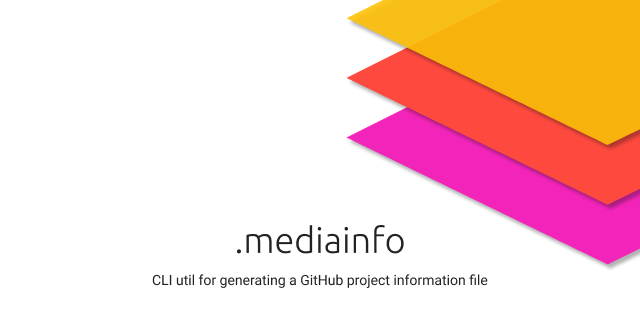
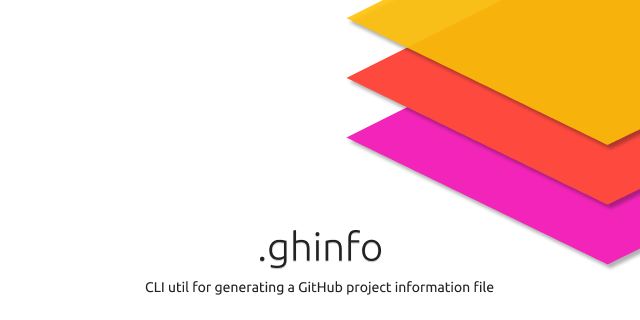
docs: rename pkg to ghinfo

Changed region(s): [[0.2188, 0.6875, 0.7812, 0.9375]]

diff --git a/src/Builder.ts b/src/Builder.ts
@@ -9,7 +9,7 @@ import { UpdateManager } from 'stdout-update';
 const manager = UpdateManager.getInstance();
 const frames = ['⠋', '⠙', '⠹', '⠸', '⠼', '⠴', '⠦', '⠧', '⠇', '⠏'];
 
-export enum MediaFiles {
+export enum AvailableFiles {
     Icon = 'icon',
     Logo = 'logo',
     Demo = 'demo',
@@ -22,19 +22,20 @@ export interface ILinks {
     homepage?: string;
 }
 
-export interface IMediaInfo {
+export interface IInfoFile {
     name: string;
     repo: string;
     version: string;
     type?: string;
     description: string;
+    keywords?: string[];
     links: ILinks;
     files: {
-        [key in MediaFiles]?: string;
+        [key in AvailableFiles]?: string;
     };
 }
 
-export class MediaInfo {
+export class Builder {
     private dir: string;
     private type: string;
     private message = '';
@@ -60,7 +61,7 @@ export class MediaInfo {
                 if (git && git.repo) {
                     if (paths.length) {
                         await fs.promises.writeFile(
-                            path.relative(process.cwd(), '.mediainfo'),
+                            path.relative(process.cwd(), '.ghinfo'),
                             JSON.stringify(this.build(paths, pkg, git.repo), null, 4)
                         );
                     }
@@ -77,9 +78,9 @@ export class MediaInfo {
         }
     }
 
-    public build(paths: string[], pkg: PackageJson, repo: string): IMediaInfo {
-        const { name, version, description, homepage } = pkg;
-        const availableFiles = Object.values(MediaFiles);
+    public build(paths: string[], pkg: PackageJson, repo: string): IInfoFile {
+        const { name, version, description, homepage, keywords } = pkg;
+        const availableFiles = Object.values(AvailableFiles);
 
         if (!name) throw new Error('Package name is undefined!');
         if (!version) throw new Error('Package name is undefined!');
@@ -89,6 +90,7 @@ export class MediaInfo {
             name,
             version,
             description,
+            keywords,
             repo,
             type: this.type,
             links: {
@@ -99,7 +101,7 @@ export class MediaInfo {
             files: paths.reduce((acc, filePath) => {
                 const { name: fileName } = path.parse(filePath);
 
-                return ~availableFiles.indexOf(fileName as MediaFiles) ? { ...acc, [fileName]: filePath } : acc;
+                return ~availableFiles.indexOf(fileName as AvailableFiles) ? { ...acc, [fileName]: filePath } : acc;
             }, {}),
         };
     }
@@ -113,7 +115,7 @@ export class MediaInfo {
         }, 80);
     }
 
-    private end(msg = [`${figures.tick} .mediainfo created!`]): void {
+    private end(msg = [`${figures.tick} .ghinfo created!`]): void {
         if (this.timer) {
             clearInterval(this.timer);
             manager.update(msg, 0);

diff --git a/src/__tests__/Builder.test.ts b/src/__tests__/Builder.test.ts
@@ -1,18 +1,18 @@
-import { MediaInfo } from '../MediaInfo';
+import { Builder } from '../Builder';
 
 const repo = 'keindev/media-info';
 const type = 'test';
 const paths = ['media/logo.svg', 'media/logo.jpg', 'media/social-preview.png'];
-let builder: MediaInfo;
+let builder: Builder;
 
-describe('MediaInfo', () => {
-    describe('Generate .mediainfo file', () => {
+describe('Builder', () => {
+    describe('Generate .ghinfo file', () => {
         beforeEach(() => {
-            builder = new MediaInfo(process.cwd(), type);
+            builder = new Builder(process.cwd(), type);
         });
 
         it('Build media info structure', () => {
-            const pkg = { name: 'media-info', version: '1.0.0', description: 'test' };
+            const pkg = { name: 'media-info', version: '1.0.0', description: 'test', keywords: ['test'] };
             const info = builder.build(paths, pkg, repo);
 
             expect(info).toStrictEqual({

diff --git a/src/cli/commands/generate.ts b/src/cli/commands/generate.ts
@@ -1,8 +1,8 @@
 import { Arguments } from 'yargs';
-import { MediaInfo } from '../../MediaInfo';
+import { Builder } from '../../Builder';
 
 export const command = 'generate';
-export const desc = 'Generate .mediainfo file';
+export const desc = 'Generate .ghinfo file';
 export const showInHelp = true;
 export const builder = {
     dir: {
@@ -25,7 +25,7 @@ interface IArguments {
 }
 
 export const handler = ({ dir, type }: Arguments<IArguments>): Promise<void> => {
-    const mediainfo = new MediaInfo(dir, type);
+    const infoBuilder = new Builder(dir, type);
 
-    return mediainfo.generate();
+    return infoBuilder.generate();
 };

diff --git a/README.md b/README.md
@@ -1,10 +1,10 @@
-<p align="center"><img width="400" src="https://cdn.jsdelivr.net/gh/keindev/media-info/media/logo.svg" alt="GitHub GraphQL API client for JavaScript"></p>
+<p align="center"><img width="400" src="https://cdn.jsdelivr.net/gh/keindev/ghinfo/media/logo.svg" alt="GitHub GraphQL API client for JavaScript"></p>
 
 <p align="center">
-    <a href="https://travis-ci.com/keindev/media-info"><img src="https://travis-ci.com/keindev/media-info.svg?branch=master" alt="Build Status"></a>
-    <a href="https://codecov.io/gh/keindev/media-info"><img src="https://codecov.io/gh/keindev/media-info/branch/master/graph/badge.svg" /></a>
-    <a href="https://www.npmjs.com/package/media-info"><img alt="npm" src="https://img.shields.io/npm/v/media-info.svg"></a>
-    <a href="https://www.npmjs.com/package/media-info"><img alt="NPM" src="https://img.shields.io/npm/l/media-info.svg"></a>
+    <a href="https://travis-ci.com/keindev/ghinfo"><img src="https://travis-ci.com/keindev/ghinfo.svg?branch=master" alt="Build Status"></a>
+    <a href="https://codecov.io/gh/keindev/ghinfo"><img src="https://codecov.io/gh/keindev/ghinfo/branch/master/graph/badge.svg" /></a>
+    <a href="https://www.npmjs.com/package/ghinfo"><img alt="npm" src="https://img.shields.io/npm/v/ghinfo.svg"></a>
+    <a href="https://www.npmjs.com/package/ghinfo"><img alt="NPM" src="https://img.shields.io/npm/l/ghinfo.svg"></a>
 </p>
 
 CLI util for generating a GitHub project information file
@@ -14,28 +14,28 @@ CLI util for generating a GitHub project information file
 ### Yarn
 
 ```console
-yarn add media-info
+yarn add ghinfo
 ```
 
 ### NPM
 
 ```console
-npm install media-info
+npm install ghinfo
 ```
 
 ## Usage
 
 ```console
-mediainfo --help
+ghinfo --help
 
-mediainfo generate -d media -t utils
+ghinfo generate -d media -t utils
 ```
 
 ## Commands
 
 ### generate
 
-Generate `.mediainfo` file
+Generate `.ghinfo` file
 
 Options:
 
